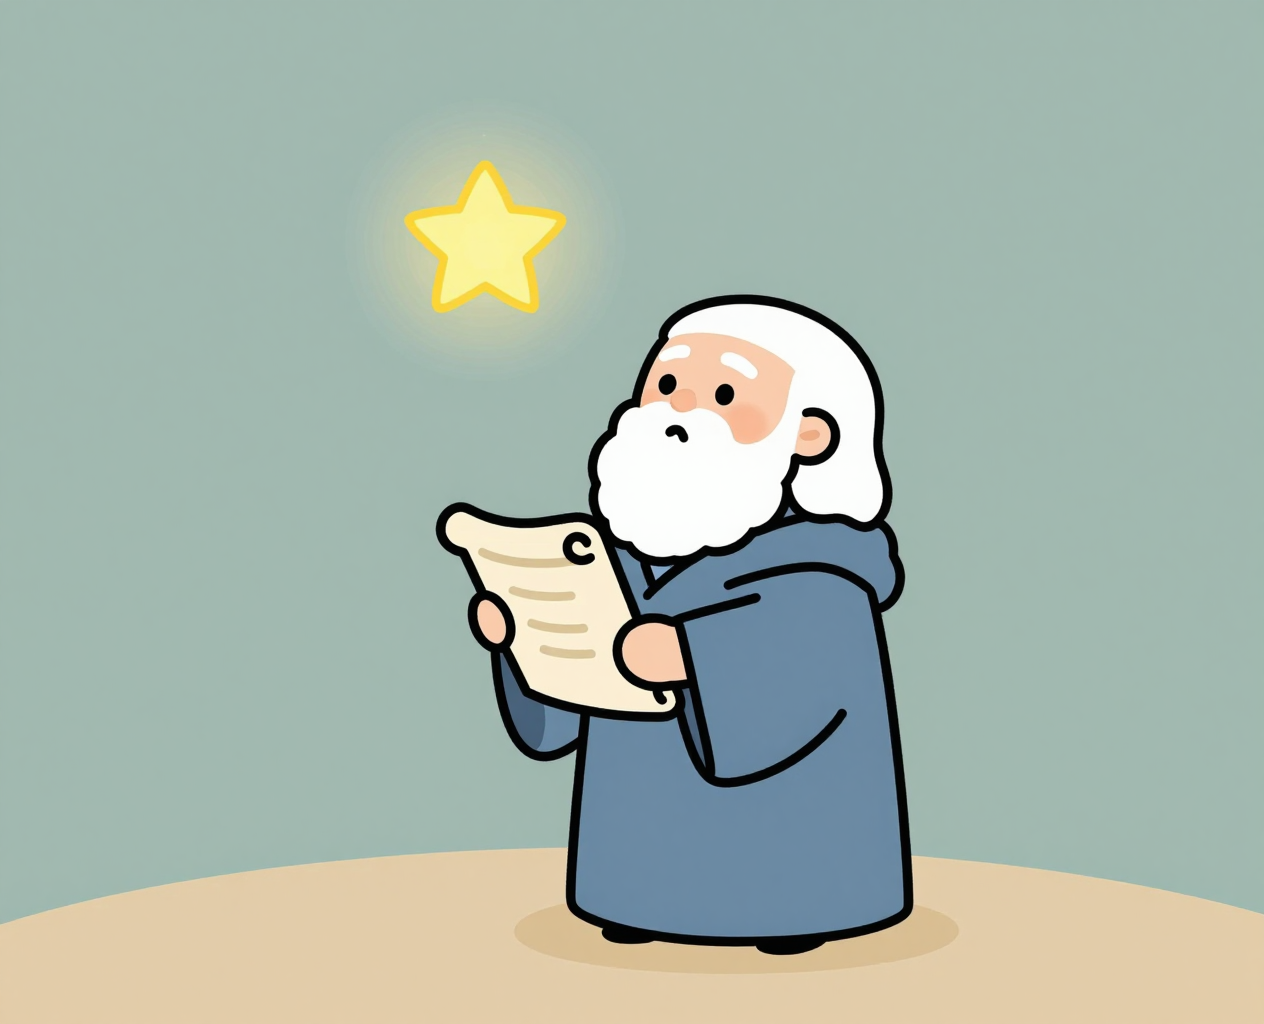
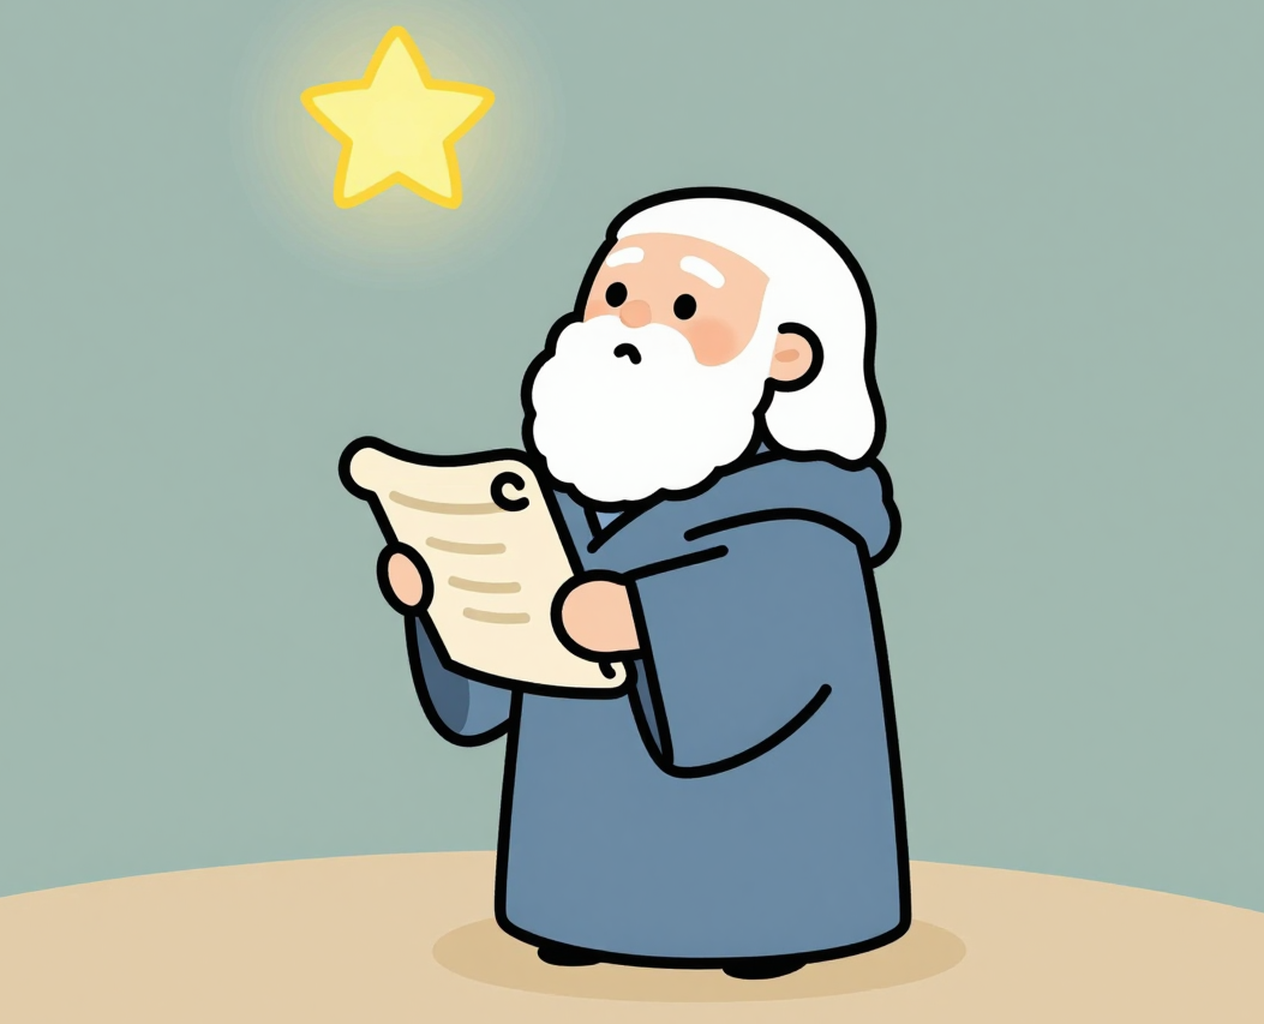
Arte completa: Espia e Filisteus 1 a 5, Isaías mais perto
- Arte da Espia e dos Filisteus 2 a 5; Filisteu 1 refeito com cara zangada.
- Isaías ampliado 1,2× à volta da personagem.
- Marcas no canto inferior direito tiradas de Filisteu 2, Filisteu 3 e Joás.
- As 55 cartas têm agora arte.

diff --git a/js/data/imagens.js b/js/data/imagens.js
@@ -22,9 +22,14 @@ export const IMAGENS = {
   eleazar: { arte: 'assets/roles/eleazar.png', mini: 'assets/roles/mini/eleazar.webp' },
   elias: { arte: 'assets/roles/elias.png', mini: 'assets/roles/mini/elias.webp' },
   eliseu: { arte: 'assets/roles/eliseu.png', mini: 'assets/roles/mini/eliseu.webp' },
+  espia: { arte: 'assets/roles/espia.png', mini: 'assets/roles/mini/espia.webp' },
   ester: { arte: 'assets/roles/ester.png', mini: 'assets/roles/mini/ester.webp' },
   ezequias: { arte: 'assets/roles/ezequias.png', mini: 'assets/roles/mini/ezequias.webp' },
   filisteu: { arte: 'assets/roles/filisteu-1.png', mini: 'assets/roles/mini/filisteu.webp' },
+  'filisteu-2': { arte: 'assets/roles/filisteu-2.png', mini: 'assets/roles/mini/filisteu-2.webp' },
+  'filisteu-3': { arte: 'assets/roles/filisteu-3.png', mini: 'assets/roles/mini/filisteu-3.webp' },
+  'filisteu-4': { arte: 'assets/roles/filisteu-4.png', mini: 'assets/roles/mini/filisteu-4.webp' },
+  'filisteu-5': { arte: 'assets/roles/filisteu-5.png', mini: 'assets/roles/mini/filisteu-5.webp' },
   golias: { arte: 'assets/roles/golias.png', mini: 'assets/roles/mini/golias.webp' },
   hananias: { arte: 'assets/roles/hananias.png', mini: 'assets/roles/mini/hananias.webp' },
   isaias: { arte: 'assets/roles/isaias.png', mini: 'assets/roles/mini/isaias.webp' },
